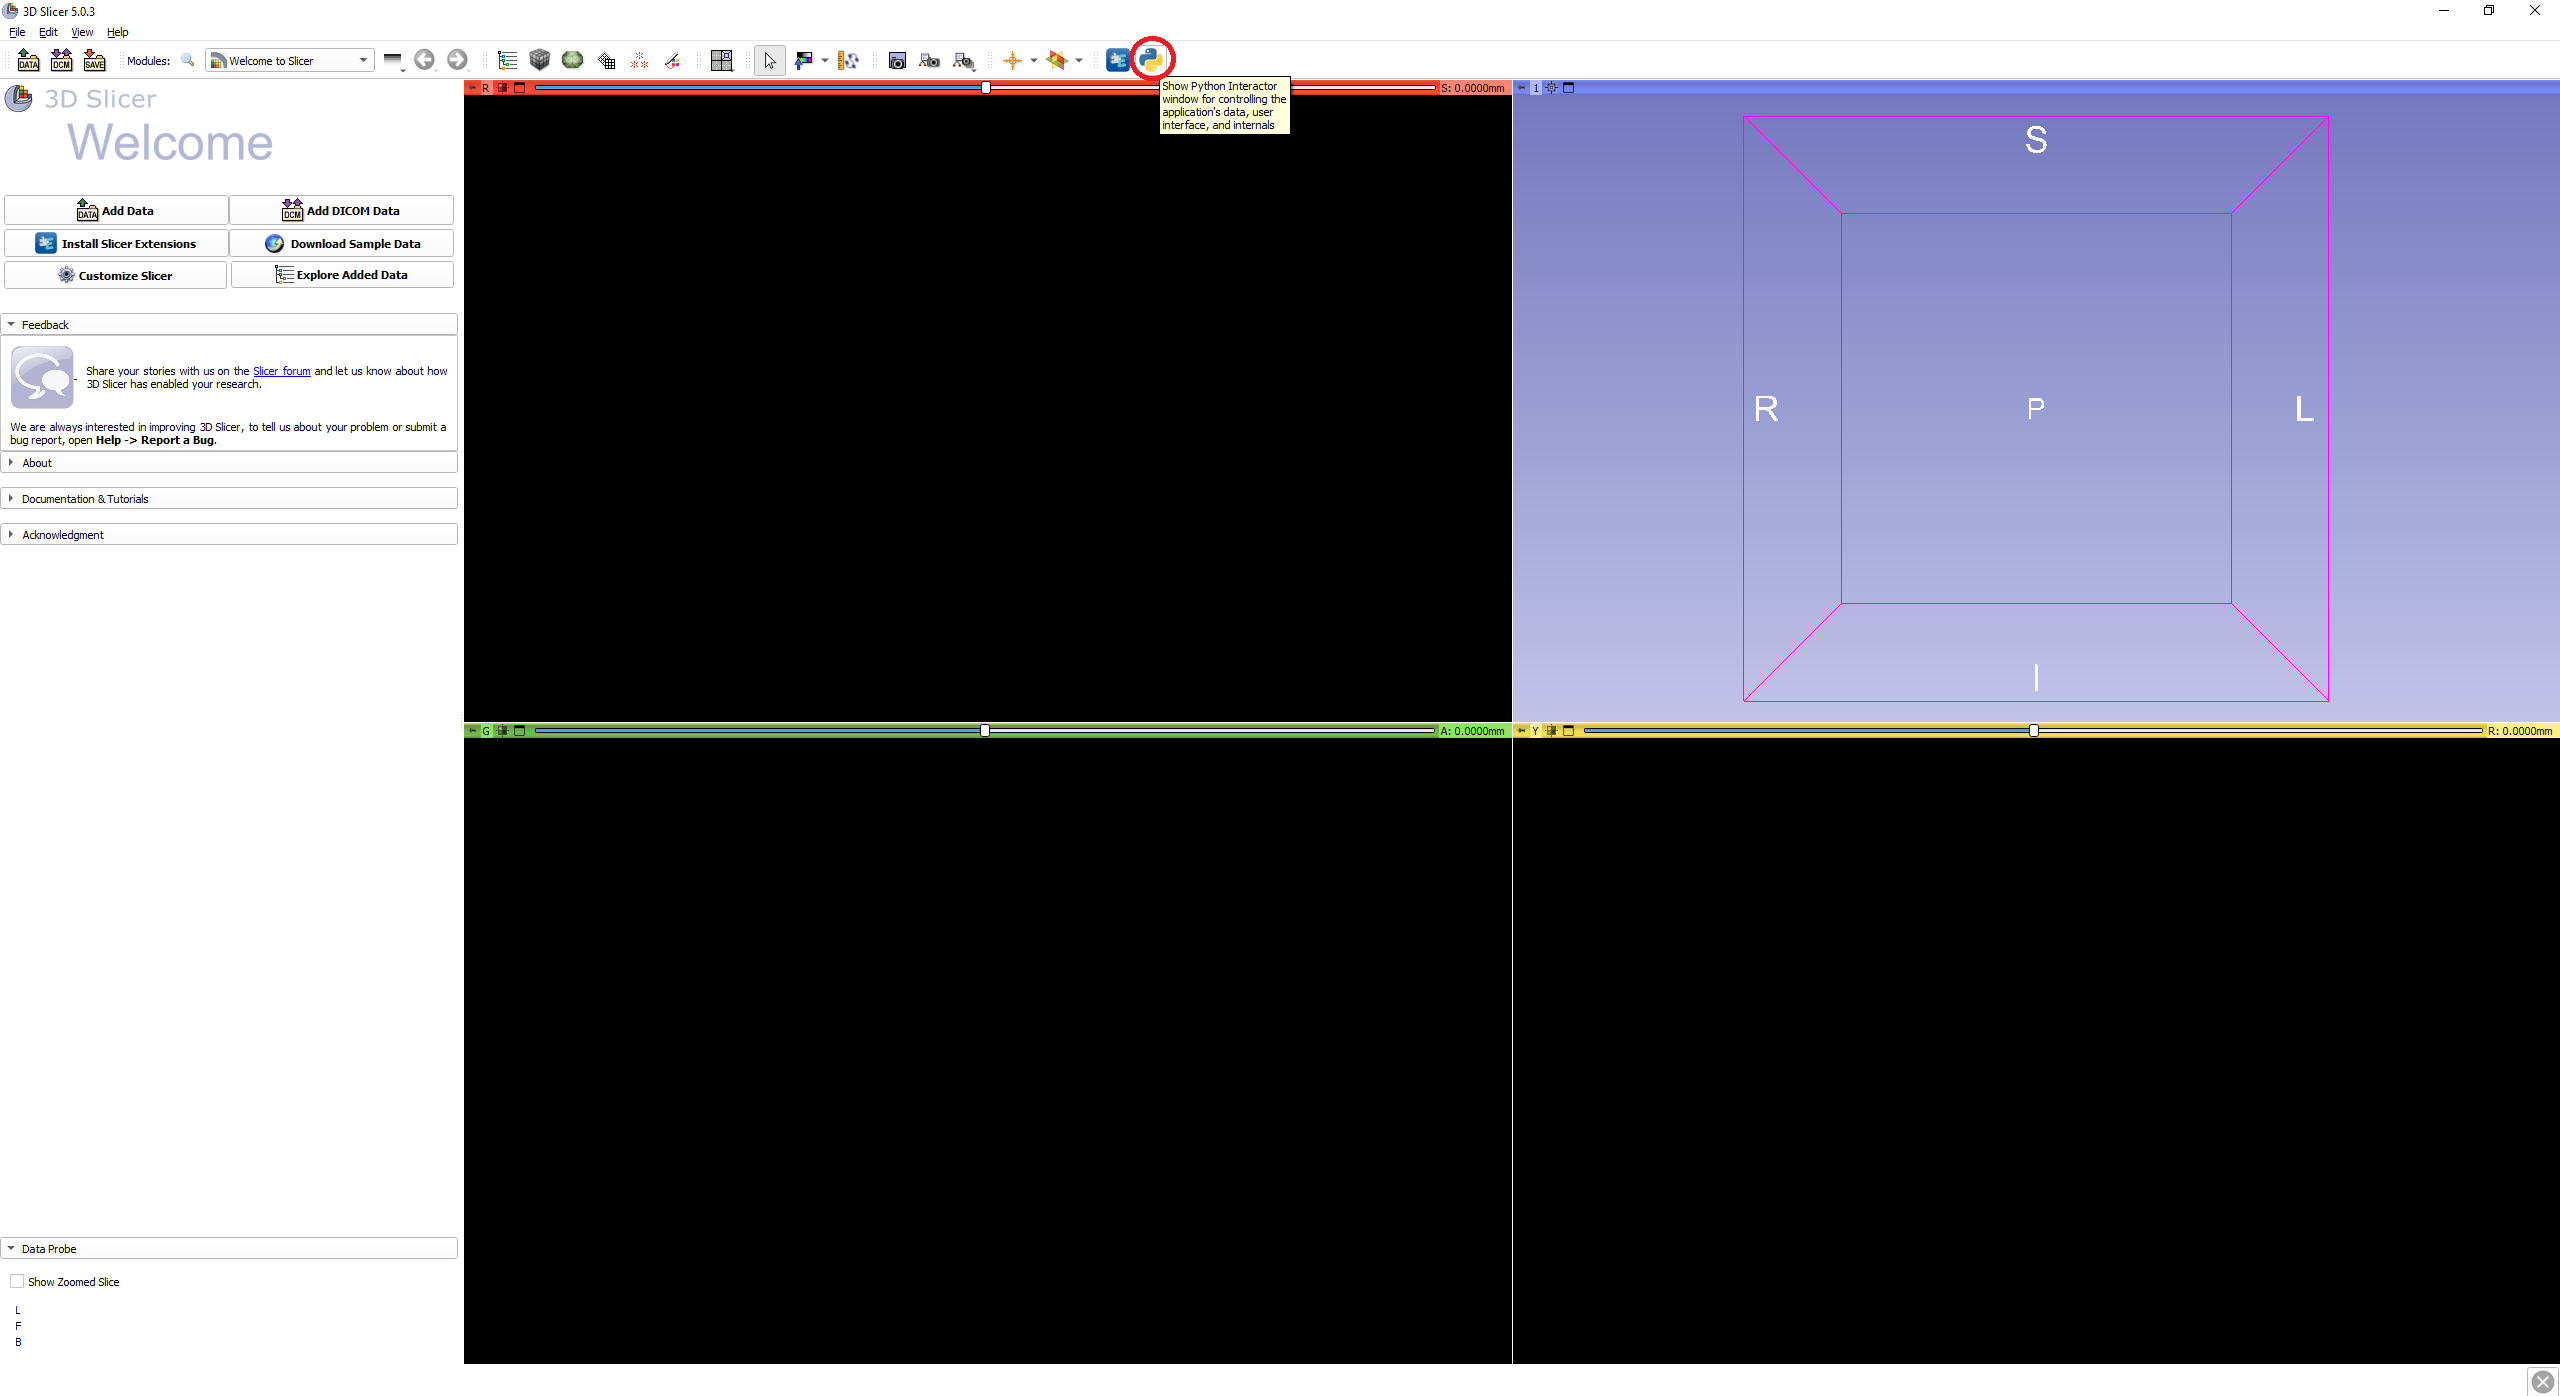
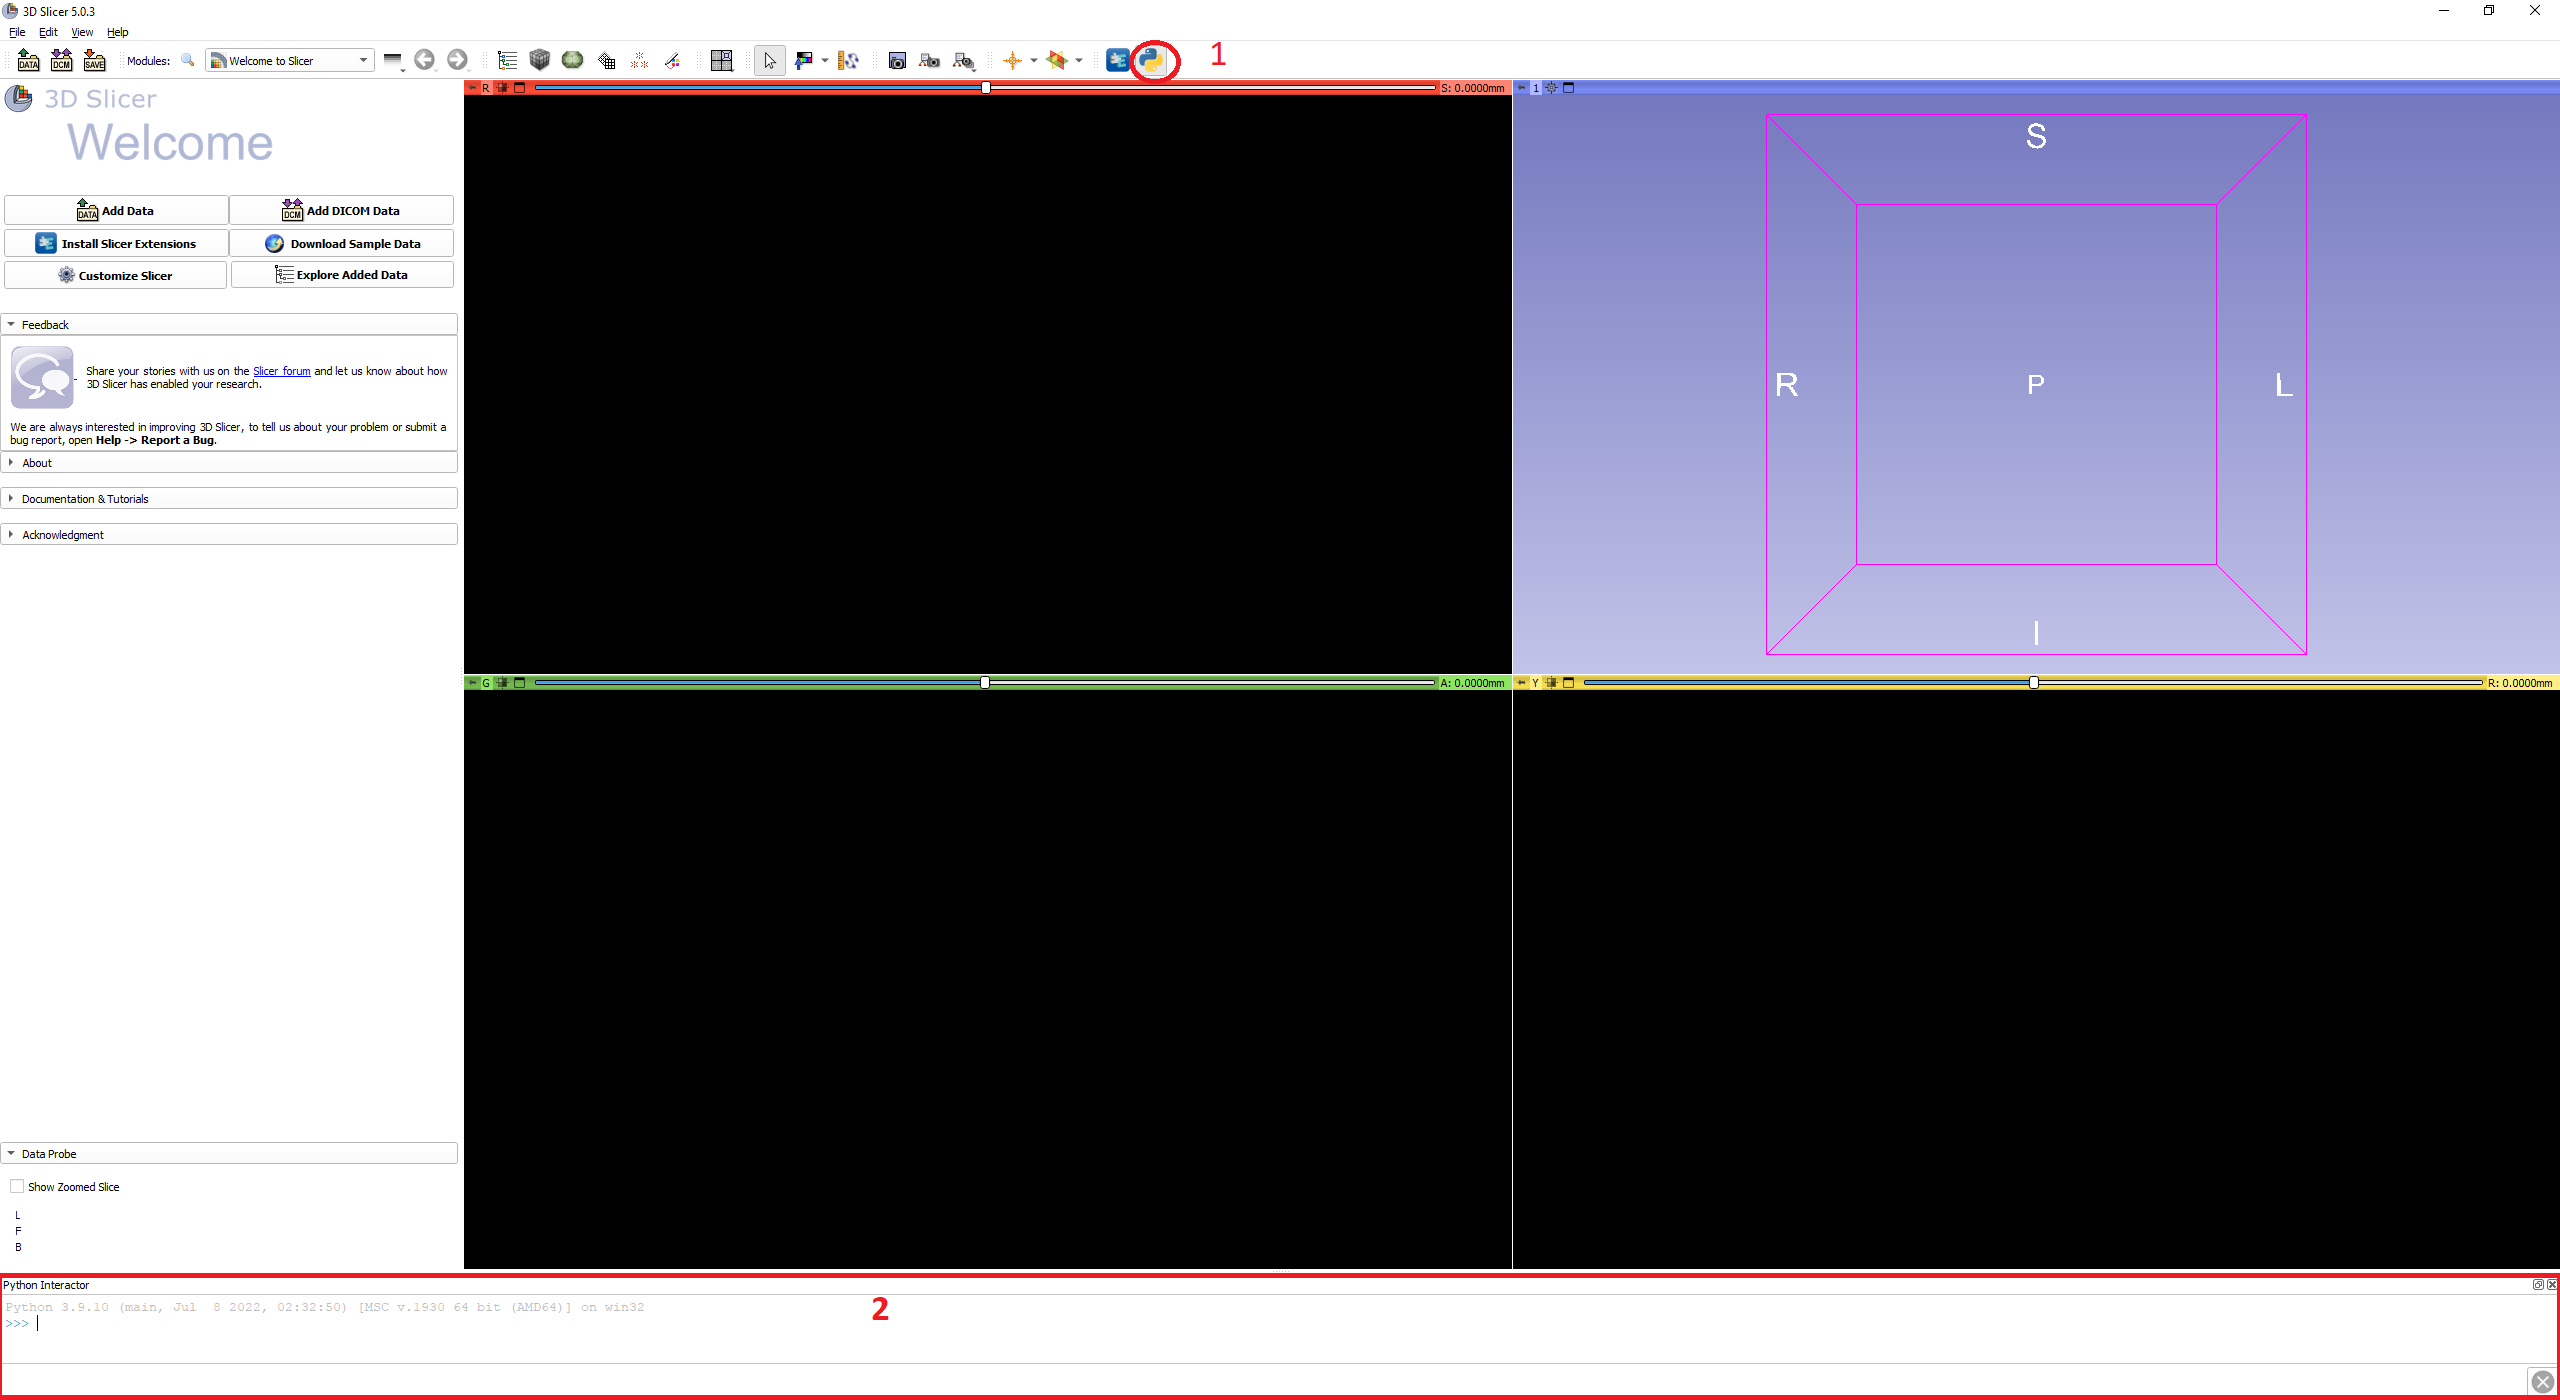
updated documentation

diff --git a/README.md b/README.md
@@ -27,17 +27,17 @@ Python automated 3D slicer pipeline to convert different image modalities to DL 
   &ensp; &ensp;    ┣ 📜Case2.nii.gz   
   &ensp; &ensp;    ┗ 📜Case3.nii.gz  
   &ensp; &ensp;    ┗ ...    
-  ┗ 📂**Mask1**  
+  ┗ 📂**Mask**  
   &ensp; &ensp;    ┣ 📜Case1.seg.nrrd  
   &ensp; &ensp;    ┣ 📜Case2.seg.nrrd   
   &ensp; &ensp;    ┣ 📜Case3.seg.nrrd  
   &ensp; &ensp;    ┗ ...   
 ## Running-code
 - Locate the python icon in your slicer GUI.
-![Image1](Documentation/step1.png)
-- It should open up a python consol at the bottom of the screen like this,
-![Image2](Documentation/step2.png)
+- It should open up a python consol at the bottom of the screen.
 - Execute the python script using command : ``` exec(open(r"D:\folder1/folder2/slicer_python_processing_code.py").read()) ```
+![Image1](Documentation/step1.png)
+
 
 ## Dependencies
 The python codes were tested and implemented on ```3D slicer 5.0.3 (r30893/7ea0f43)```. You can access older versions of 3D slicer [here](https://slicer-packages.kitware.com/#collection/5f4474d0e1d8c75dfc70547e/folder/5f4474d0e1d8c75dfc705482).
